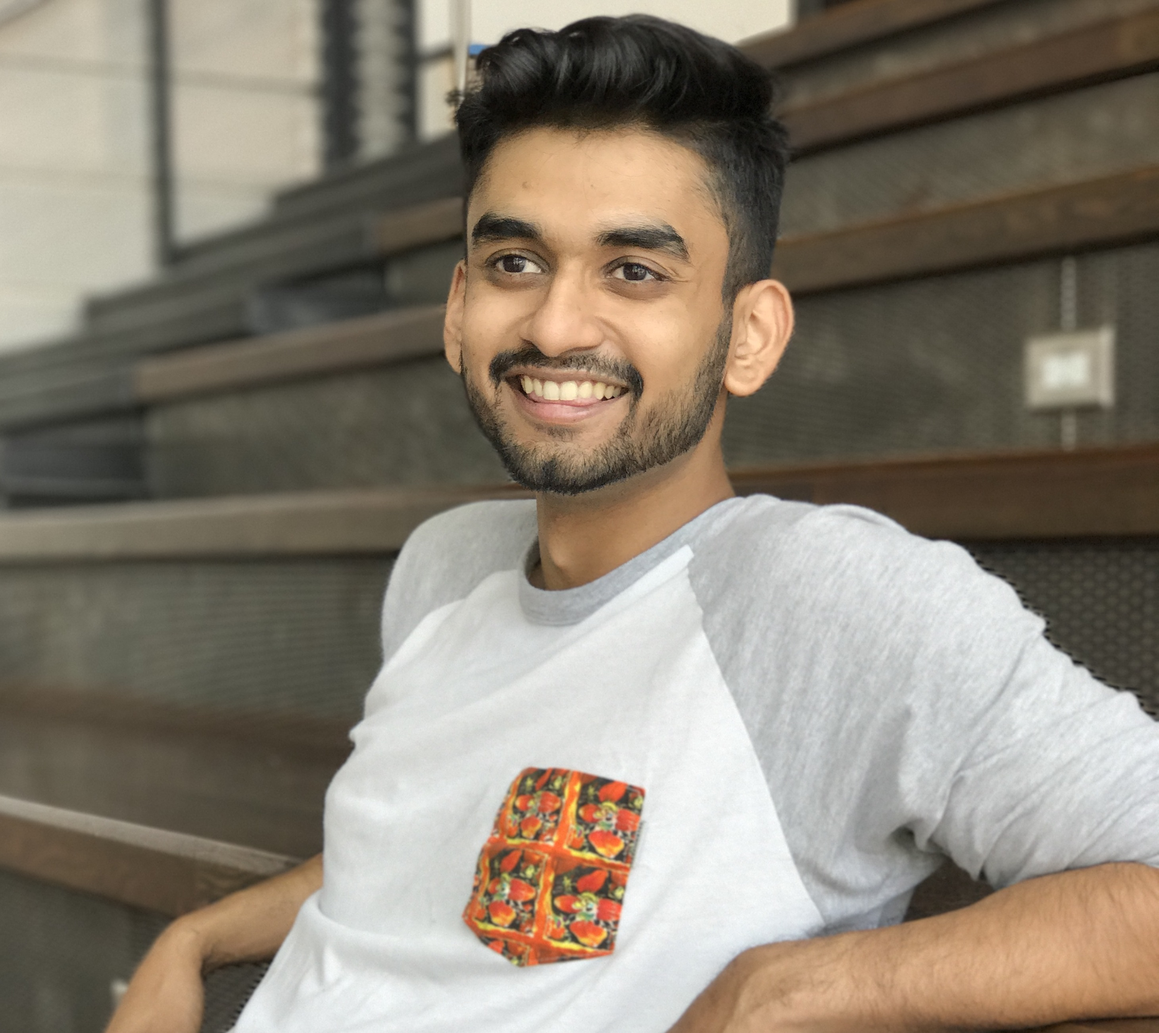
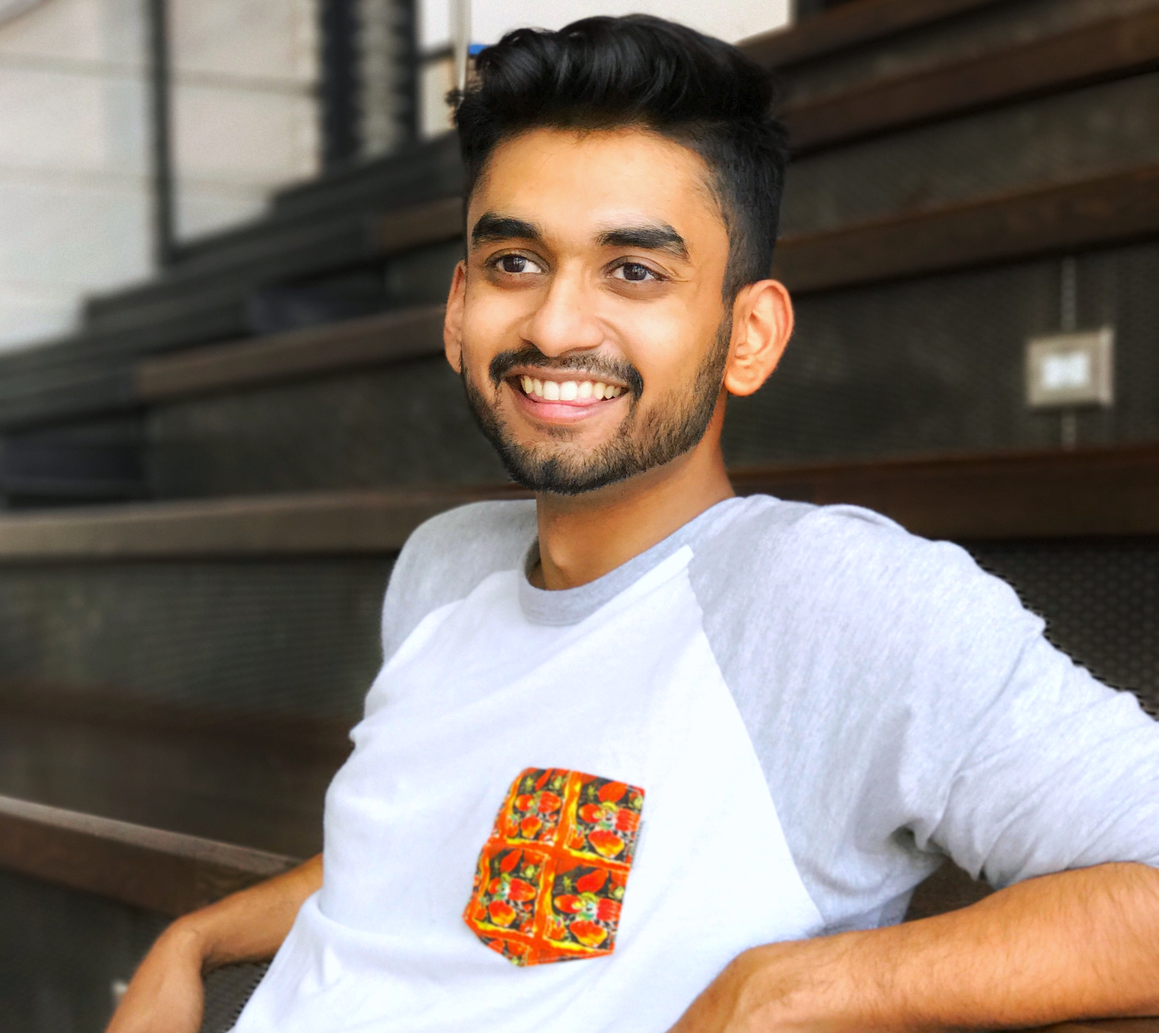
gallery and stories
also lowered all resolution on pictures of website

diff --git a/gallery.html b/gallery.html
@@ -97,7 +97,7 @@
 										</div>
 
 										<!-- Footer -->
-											<footer id="footer1">
+											<footer id="footer">
 												<ul class="icons">
 													<li><a href="https://www.facebook.com/project.5w1h/" target= "_blank" class="icon fa-facebook"><span class="label">Facebook</span></a></li>
 													<li><a href="https://www.instagram.com/project.5w1h/" target= "_blank" class="icon fa-instagram"><span class="label">Instagram</span></a></li>

diff --git a/stories.html b/stories.html
@@ -71,7 +71,7 @@
 								</p>
 								<hr />
 
-								<p><center><a href= "gallery.html"><img src="images/story02.jpg" width ="680" height="520"></a> </br> </center></p>
+								<p><center><a href= "gallery.html"><img src="images/story02.jpg" width ="380" height="520"></a> </br> </center></p>
 								<h3><center>Zak M</center></h3>
 								<p><strong>Who: </strong></br>
 								<p><strong>What: </strong></br>

diff --git a/assets0/css/main2.css b/assets0/css/main2.css
@@ -1623,7 +1623,7 @@
 				}
 
 		}
-		/* Footer gallery */
+		/* Footer gallery
 
 			#footer2 {
 				position: sticky;
@@ -1701,4 +1701,4 @@
 						padding: 3em 2em 1em 2em ;
 					}
 
-				}
+				} */
